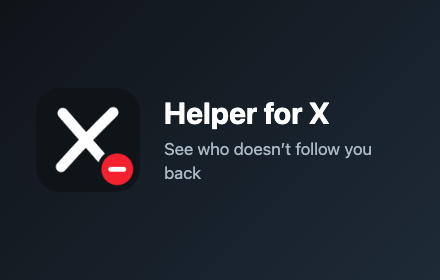
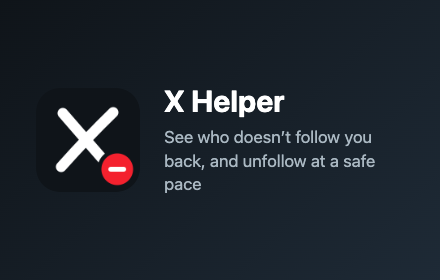
[feature][0.2.0：隐私政策补充自动关注/取关说明，README 与截图更新]

Changed region(s): [[0.3545, 0.3143, 0.8568, 0.6857]]

diff --git a/PRIVACY.md b/PRIVACY.md
@@ -4,39 +4,47 @@
 
 ## English
 
-X Helper (Chrome extension) · Last updated: November 17, 2026
+X Helper (Chrome extension) · Last updated: November 19, 2026
 
 X Helper is an independent browser extension. It is not affiliated with, endorsed by, or sponsored by X Corp.
 
 ### What the extension does
 
-It shows which accounts you follow on X (x.com) don't follow you back. It runs only on x.com pages, and only reads your own following list after you start a scan from the extension popup.
+It shows which accounts you follow on X (x.com) don't follow you back. When you start a task, it can also follow or unfollow accounts on x.com for you, at a slow pace. It runs only on x.com pages.
 
 ### Data the extension reads
 
 When you start a scan, the extension reads the following information from your own following list, as loaded by x.com in your browser while you are logged in:
 
 - Your own X username (handle), to know whose following list to open
-- For each account you follow: username, display name, profile picture URL, short bio, follower and following counts, verified and protected status, and whether that account follows you
+- For each account you follow: username, display name, profile picture URL, short bio, follower and following counts, post count, verified and protected status, and whether that account follows you
 
-The extension does not read your password, cookies, private messages, posts, or any other page content.
+When you start an auto unfollow or auto follow task, the extension also reads, for each account in the task: the follow button state on their profile, whether they follow you, and the date of their latest post (only if you filter by days since the last post). For auto follow, it reads the same account details from the followers or following list of the account you entered.
+
+The extension does not read your password, cookies, private messages, or the content of posts.
+
+### What the extension does on your account
+
+Only after you click Start on a task, the extension clicks Follow or Unfollow on x.com pages, the same buttons you would click yourself. It waits at least 3 seconds between steps, rests between batches, and stops at a daily limit. It pauses by itself if X shows a rate limit or asks for verification. You can pause or stop at any time.
+
+The extension never posts, likes, sends messages, or changes your profile or settings.
 
 ### How the data is stored
 
-All data is stored only on your device, in the extension's local storage (`chrome.storage.local`). It includes the scan results, the accounts you marked as "Unfollowed" or "Keep", and your language setting.
+All data is stored only on your device, in the extension's local storage (`chrome.storage.local`). It includes the scan results, the accounts you marked as "Unfollowed" or "Keep", the current task and its progress, the history of follows and unfollows made by the extension (time, account, reason), your pacing settings, and your language setting.
 
 ### Sharing
 
-The extension has no server. It does not send any data to the developer or any third party, and it does not use analytics, ads, or tracking. Nothing is sold or transferred. The only network requests are the ones x.com itself makes while you browse it.
+The extension has no server. It does not send any data to the developer or any third party, and it does not use analytics, ads, or tracking. Nothing is sold or transferred. The only network requests are the ones x.com itself makes while the page is open.
 
 ### Your control
 
-You can delete all stored data at any time by removing the extension from Chrome (chrome://extensions → Remove). CSV files you export are saved wherever you choose and are under your control.
+You can clear the history on the History tab, and delete all stored data at any time by removing the extension from Chrome (chrome://extensions → Remove). CSV files you export are saved wherever you choose and are under your control.
 
 ### Permissions
 
-- **storage**: saves scan results and your marks on your device.
-- **Access to x.com**: needed to read your following list from the page and scroll it during a scan.
+- **storage**: saves scan results, your marks, tasks, history and settings on your device.
+- **Access to x.com**: needed to read your following list, open profiles and lists, click Follow or Unfollow during a task you started, and show the progress panel.
 
 ### Changes and contact
 
@@ -46,39 +54,47 @@ If this policy changes, the updated version will be posted here with a new date.
 
 ## 中文
 
-X Helper（Chrome 插件）· 最后更新：2026 年 11 月 17 日
+X Helper（Chrome 插件）· 最后更新：2026 年 11 月 19 日
 
 X Helper 是独立开发的浏览器插件，与 X Corp. 没有关联，也未获得其认可或赞助。
 
 ### 插件做什么
 
-插件帮你查看在 X（x.com）上你关注的人里，有哪些没有回关你。插件只在 x.com 页面上运行，并且只在你从插件弹窗点「开始扫描」后，读取你自己的关注列表。
+插件帮你查看在 X（x.com）上你关注的人里，有哪些没有回关你。你开始任务后，插件还可以按慢速节奏在 x.com 上帮你关注或取关。插件只在 x.com 页面上运行。
 
 ### 插件读取哪些数据
 
 开始扫描后，插件会从你登录状态下 x.com 在浏览器里加载的关注列表中读取：
 
 - 你自己的 X 用户名（handle），用来打开你的关注列表
-- 你关注的每个账号的用户名、昵称、头像地址、简介、粉丝数和关注数、是否认证、是否受保护，以及对方是否关注了你
+- 你关注的每个账号的用户名、昵称、头像地址、简介、粉丝数和关注数、发帖数、是否认证、是否受保护，以及对方是否关注了你
 
-插件不会读取你的密码、Cookie、私信、帖子或页面上的其他内容。
+开始自动取关或自动关注任务后，插件还会读取任务里每个账号主页上的关注按钮状态、对方是否关注了你，以及最近一条帖子的时间（只在你按「多少天没发帖」筛选时读取）。自动关注时，插件会从你输入的账号的粉丝列表或关注列表里读取上面同样的账号资料。
+
+插件不会读取你的密码、Cookie、私信或帖子内容。
+
+### 插件会在你的账号上做什么
+
+只有在你点任务的「开始」之后，插件才会在 x.com 页面上点「关注」或「取消关注」，和你自己点的是同一个按钮。每一步至少间隔 3 秒，每批之后休息，达到每日上限就停。X 提示受限或要求验证时会自动暂停。你可以随时暂停或停止。
+
+插件不会发帖、点赞、发私信，也不会修改你的资料或设置。
 
 ### 数据存在哪里
 
-所有数据只保存在你自己的设备上，存在插件的本地存储（`chrome.storage.local`）里，包括扫描结果、你标记为「已取关」或「不取关」的账号，以及语言设置。
+所有数据只保存在你自己的设备上，存在插件的本地存储（`chrome.storage.local`）里，包括扫描结果、你标记为「已取关」或「不取关」的账号、当前任务和进度、插件执行过的关注和取关记录（时间、账号、原因）、节奏设置，以及语言设置。
 
 ### 分享
 
-插件没有服务器，不会把任何数据发给开发者或第三方，也没有统计、广告或追踪。数据不会被出售或转让。插件运行时产生的网络请求，全部是你浏览 x.com 时 x.com 自己发出的请求。
+插件没有服务器，不会把任何数据发给开发者或第三方，也没有统计、广告或追踪。数据不会被出售或转让。插件运行时产生的网络请求，全部是页面打开时 x.com 自己发出的请求。
 
 ### 你可以怎么处理这些数据
 
-在 Chrome 里移除插件（chrome://extensions → 移除），所有保存的数据会一并删除。你导出的 CSV 文件保存在你选择的位置，由你自己管理。
+可以在「操作记录」里清空记录；在 Chrome 里移除插件（chrome://extensions → 移除），所有保存的数据会一并删除。你导出的 CSV 文件保存在你选择的位置，由你自己管理。
 
 ### 权限说明
 
-- **storage**：在本机保存扫描结果和你的标记。
-- **访问 x.com**：扫描时需要在页面上读取你的关注列表，并自动向下滚动。
+- **storage**：在本机保存扫描结果、你的标记、任务、操作记录和设置。
+- **访问 x.com**：读取你的关注列表，打开主页和列表，在你开始的任务里点「关注」或「取消关注」，以及显示进度面板。
 
 ### 变更与联系方式
 

diff --git a/README.md b/README.md
@@ -1,6 +1,6 @@
 # X Helper
 
-Chrome extension that shows which accounts you follow on X don't follow you back.
+Chrome extension that shows which accounts you follow on X don't follow you back, and can unfollow them for you at a slow, steady pace.
 
 **Download:** [latest release](https://github.com/certhon/x-helper/releases/latest) · **Privacy policy:** [PRIVACY.md](PRIVACY.md) · **Author:** [@certhon520 on X](https://x.com/certhon520)
 
@@ -8,18 +8,31 @@ Install: unzip the release file, open `chrome://extensions`, turn on Developer m
 
 下载：[最新版本](https://github.com/certhon/x-helper/releases/latest)。安装：解压后打开 `chrome://extensions`，开启「开发者模式」，点「加载已解压的扩展程序」，选择解压后的文件夹。作者：[X 上的 @certhon520](https://x.com/certhon520)
 
+## Features
+
+- Scan your following list and see who doesn't follow you back. Search, sort, show only unverified accounts, copy links, export CSV.
+- Auto unfollow: filter by follow-back, follower count, days since last post and verified status. Review the list, click Keep on anyone you want to stay followed, then start.
+- Auto follow: follow people from another account's followers or following list, with a follower range and a limit.
+- Slow pacing: at least 3 seconds between steps, rests between batches, a daily limit. Pauses by itself when X rate-limits or asks for verification.
+- A floating progress panel on x.com with Pause, Resume and Stop. History of every follow and unfollow, exportable as CSV.
+- All data stays in your browser. No server, no analytics.
+
+Aggressive bulk following or unfollowing is against X's rules and can get an account limited. The defaults are slow; use them responsibly.
+
 ## Screenshots
 
 ![To review](screenshots/1-results-en.png)
-![Unverified](screenshots/2-unverified-en.png)
-![Popup](screenshots/3-popup-en.png)
+![Auto unfollow](screenshots/2-autounfollow-en.png)
+![Progress panel](screenshots/3-float-en.png)
+![Popup](screenshots/4-popup-en.png)
 
 <details>
 <summary>中文界面截图</summary>
 
 ![待处理](screenshots/1-results-zh.png)
-![未认证](screenshots/2-unverified-zh.png)
-![弹窗](screenshots/3-popup-zh.png)
+![自动取关](screenshots/2-autounfollow-zh.png)
+![进度面板](screenshots/3-float-zh.png)
+![弹窗](screenshots/4-popup-zh.png)
 
 </details>
 
